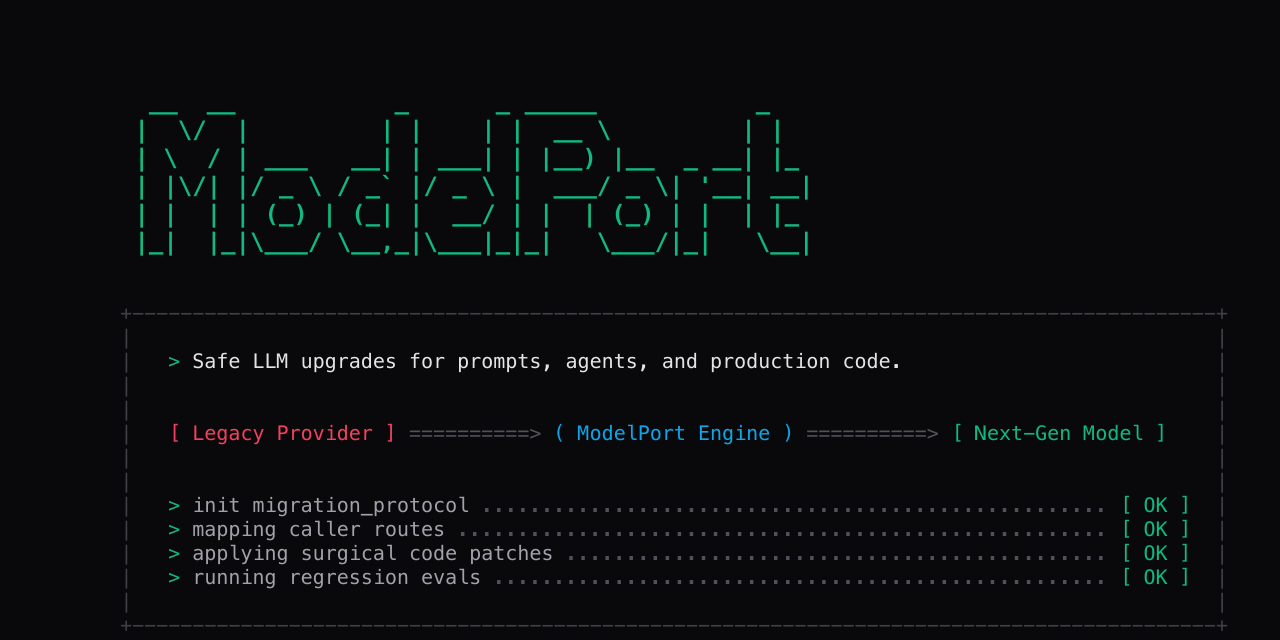
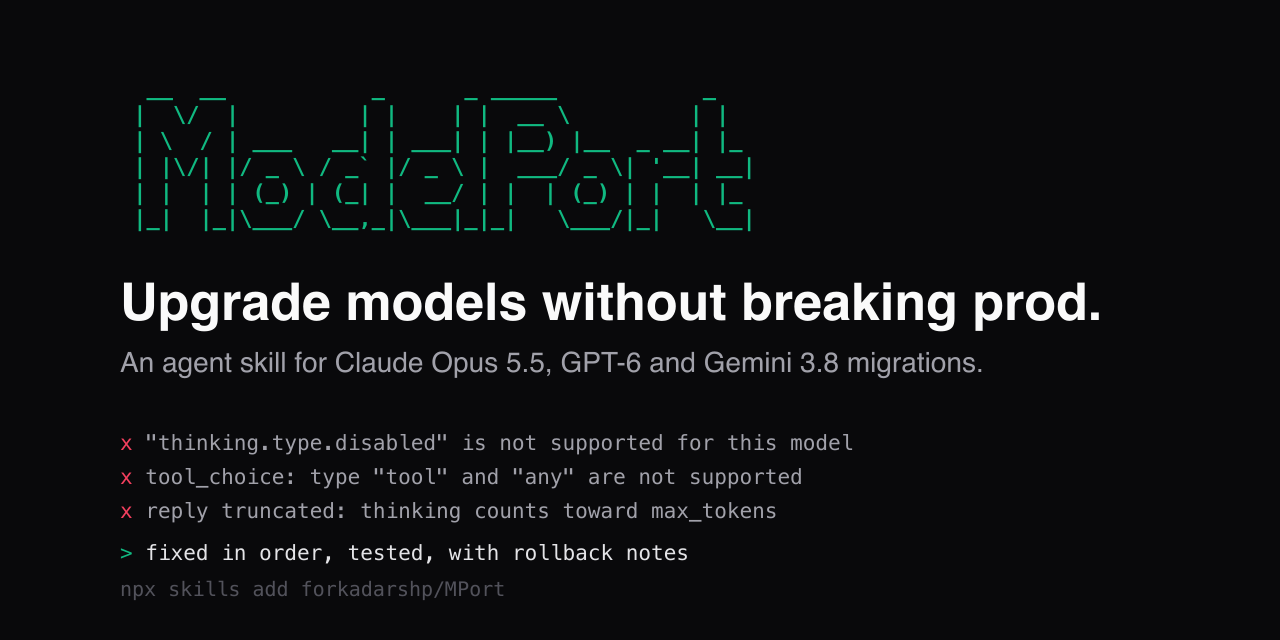
docs(readme): lead with the errors people hit and the supported models
Replace the Opus 4.8 launch framing with an evergreen pitch, the exact
errors seen after a model swap, a supported-models table, and a sample
leaderboard taken from the simulator. Redraw the social preview.

diff --git a/README.md b/README.md
@@ -2,63 +2,86 @@
 
 [![CI](https://github.com/forkadarshp/MPort/actions/workflows/ci.yml/badge.svg)](https://github.com/forkadarshp/MPort/actions/workflows/ci.yml)
 [![License: MIT](https://img.shields.io/badge/License-MIT-yellow.svg)](LICENSE)
-[![Codex Skill](https://img.shields.io/badge/Codex-Skill-111827)](SKILL.md)
+[![Agent Skill](https://img.shields.io/badge/Agent-Skill-111827)](SKILL.md)
+[![Models](https://img.shields.io/badge/Claude_5.x_·_GPT--6_·_Gemini_3.8-guides-blue)](references/models/INDEX.md)
 [![PRs Welcome](https://img.shields.io/badge/PRs-welcome-brightgreen.svg)](CONTRIBUTING.md)
-[![Status: Alpha](https://img.shields.io/badge/Status-v0.1_Alpha-blue)](docs/PUBLISHING.md)
 
 ![ModelPort social preview](assets/social-preview.svg)
 
-**Ship model upgrades without breaking prod — then prove it.**
+**Upgrade to Claude Opus 5.5, GPT-6, or Gemini 3.8 without breaking prod.**
 
-Two things in one agent skill: **behavior-preserving migrations** across prompts, agents, tools, API callers, and tests — and **built-in evals** that score your old vs. new system so every upgrade is backed by numbers, not vibes. Works in Claude Code, Codex, and Cursor.
+ModelPort is an agent skill for Claude Code, Codex, and Cursor. It migrates the
+prompts, tool definitions, API calls, and tests around a model swap, using
+per-model guides that track each provider's breaking changes. Then it proves the
+upgrade worked with tests, a live smoke check, and optional old-vs-new evals.
 
-> **Install in one line:** `npx skills add forkadarshp/MPort` — then tell your agent to migrate. See [Quickstart](#quickstart).
+> **Install:** `npx skills add forkadarshp/MPort`, then tell your agent
+> *"migrate this repo to claude-opus-5-5"*. See [Quickstart](#quickstart).
 
-**The model ID is one line. The behavior around it is everything else.**
-Most migrations break because search-and-replace silently shatters tool calling,
-parsers, and orchestration. ModelPort treats a swap as behavior preservation:
+## Seen one of these after a model swap?
 
 ```text
-  # the naive migration         ┄ what a find/replace does
-  $ grep -rl 'opus-4-7' . | xargs sed -i 's/4-7/4-8/g'
-  x tool calls break      x parser drift        x silent prod regressions
-
-  # the ModelPort migration     ┄ behavior-preserving
-  > migrate this repo to claude-opus-4-8, keep behavior, prove it
-  ✓ callers mapped        ✓ contract held       ✓ tests + rollback evidence
+"thinking.type.disabled" is not supported for this model.
+tool_choice: type "tool" and "any" are not supported for this model.
+'claude-opus-5-5' does not support tool types: computer_20251124.
+temperature / top_p / logprobs rejected after moving to GPT-6
+thinking_budget and thinking_level in the same request (Gemini 3.x) → 400
+stop_reason: "refusal" and code that reads content[0]
 ```
 
-> **Star it** if it's saved you a migration headache — it helps other teams find it.
+Changing the model ID is one line. The 400s, the truncated replies (thinking now
+counts toward `max_tokens`), the quiet UI between tool calls, and the parsers
+that stop matching are everything else. The lookup for all of them is in
+[`references/breaking-changes.md`](references/breaking-changes.md). ModelPort
+applies the fixes for you, in order, and shows its evidence.
 
-## Now shipping: Claude Opus 4.8 (released 2026-05-28)
+## What you get
 
-Opus 4.8 is live, and ModelPort already ships a dedicated migration guide for it:
-[`references/models/claude-opus-4-8.md`](references/models/claude-opus-4-8.md).
-It covers the **4.7 → 4.8 drop-in path**, the **4.6 → 4.7 breaking changes you
-must apply first** (non-default sampling params now 400, manual extended
-thinking → `{type: "adaptive"}` + `effort`, new tokenizer, removed assistant
-prefills), and **effort re-baselining**. Point the skill at your repo:
+- **Current-model knowledge.** Dedicated guides for Claude Fable 5.1, Opus 5.5,
+  Sonnet 5.5, Haiku 5.5, GPT-6, and Gemini 3.8 Flash. Older guides layer
+  underneath for upgrades that start further back.
+- **Guides that stay fresh.** Every guide has a `Last verified:` date and a
+  `Source:`. A weekly job flags stale guides, and the skill re-checks the
+  provider's docs before trusting an old one.
+- **A migration, not a find/replace.** Scope lock, caller discovery, file
+  classification, required fixes kept apart from optional tuning, then
+  validation and rollback notes.
+- **Proof.** Tests, a live smoke call, and an optional three-arm benchmark
+  (old model, naive swap, ModelPort) with a runnable harness.
+
+## Supported models
+
+| Provider | Models with a dedicated guide |
+| :------- | :---------------------------- |
+| Anthropic | Claude Fable 5.1, Opus 5.5, Sonnet 5.5, Haiku 5.5 (legacy: Opus 4.8, Opus 4.6, Sonnet 4.5) |
+| OpenAI | GPT-6 Astra, GPT-6.1 Sol, GPT-6 Sol, GPT-6 Luna (legacy: GPT-5.5) |
+| Google | Gemini 3.8 Flash |
+| Anything else | Generic playbook plus provider checklists, with research on the target's docs |
+
+Registry, upgrade paths, and freshness rules: [`references/models/INDEX.md`](references/models/INDEX.md).
+
+## Example
 
 ```text
-Use $modelport-skill to migrate this codebase to claude-opus-4-8.
+Use $modelport-skill to migrate this codebase to claude-opus-5-5.
 Apply required compatibility fixes first, keep tool + output behavior stable,
 and return validation evidence plus rollback notes.
 ```
 
+You get back a report with: what changed and why, required fixes versus
+optional tuning, test and smoke results, risks, and how to roll back. A sample
+is in [examples/example-output.md](examples/example-output.md).
+
 ## How it works
 
-ModelPort treats a model swap as a **behavior-preservation problem**, not a
-search-and-replace. The model ID is one line; the behavior around it — tool
-calls, parsers, output contracts, prompts, orchestration — is everything else.
-The skill drives a strict, phase-gated pipeline that maps every caller,
-classifies each hit before editing, keeps required fixes apart from optional
-tuning, and refuses to claim "done" without proof.
+A strict, phase-gated pipeline. The skill will not edit before scope is locked
+and will not claim "done" without proof.
 
 ```text
 ╭──────────────────────────────────────────────────────────────────────╮
 │                                                                      │
-│   [ Opus 4.7 ]  ═══>  ( ModelPort )  ═══>  [ Opus 4.8 ]              │
-│   drop-in upgrade    behavior-preserving    GA · 2026-05-28          │
+│   [ old model ]  ═══>  ( ModelPort )  ═══>  [ new model ]            │
+│   what you run        behavior-preserving   what you ship            │
 │                                                                      │
 │   » phase 0   lock scope, read current state ················· [ OK ]│
 │   » phase 1   discover callers, prompts, agents, tools ······· [ OK ]│
@@ -71,94 +94,50 @@ tuning, and refuses to claim "done" without proof.
 ╰──────────────────────────────────────────────────────────────────────╯
 ```
 
-## More than a model-ID swap
+## Beyond the model ID
 
-ModelPort doesn't just rewrite `model="..."`. It updates prompts, tool
-descriptions, and guardrails to match how the **target model actually behaves** —
-including the undocumented quirks that never make the changelog.
+ModelPort also adjusts prompts, tool descriptions, and guardrails to match how
+the target model behaves, including changes the changelog barely mentions. Two
+examples from the current generation: Claude Opus 5.5 defaults to `medium`
+effort, one level below Opus 5, so an untouched config quietly thinks less. And
+Claude Sonnet 5.5 can read a user message that arrives right after a tool result
+as a prompt injection, so mid-task user input must be delivered as a user turn.
+Each guide lists these as required fixes or optional tuning, never mixed.
 
-Take chess: GPT-3.5 played badly, GPT-4o was a leap ahead — not from a rules
-change, but because 4o's training data held far more chess games. That kind of
-capability shift never appears in the release notes. ModelPort's research
-surfaces these advertised *and* unadvertised behaviors — from observed runs,
-prior migrations, web research, and provider changelogs — and folds the matching
-prompt and tooling changes into the migration, so the new model is actually used
-to its strengths instead of just dropped in.
+## Benchmark the upgrade
 
-## Outcomes: with vs. without ModelPort
+Opt in and ModelPort ends with measured evidence. It runs the same eval set
+against three configurations so the raw model delta and the skill's value are
+attributed separately:
 
-Skipping the discipline is exactly where migrations look fine in review and
-then silently regress in production — broken tool calls, drifted output
-contracts, no proof, and no way back.
+- **Baseline**: old model, old prompts (where you started)
+- **Naive swap**: new model, old prompts (what a find/replace gets you)
+- **ModelPort-enhanced**: new model, enhanced system (where you land)
 
-```text
-╭───────────────────────────────────┬───────────────────────────────────╮
-│  WITHOUT ModelPort                │  WITH ModelPort                   │
-├───────────────────────────────────┼───────────────────────────────────┤
-│   x  find/replace the model ID    │   ✓  scope-locked discovery       │
-│   x  tool calls break silently    │   ✓  callers mapped, not guessed  │
-│   x  parser / output drift        │   ✓  output contract preserved    │
-│   x  prompt hacks carry over      │   ✓  fixes vs tuning kept apart   │
-│   x  "looks fine" — no proof      │   ✓  tests + live smoke evidence  │
-│   x  no way back on breakage      │   ✓  rollback notes included      │
-├───────────────────────────────────┼───────────────────────────────────┤
-│   →  silent prod regressions      │   →  behavior-preserving upgrade  │
-╰───────────────────────────────────┴───────────────────────────────────╯
-```
-
-## Benchmark the upgrade — built-in evals
-
-Migrations shouldn't be a leap of faith. Opt in and ModelPort ends with
-**measured evidence, not vibes** — it runs the same eval set against three
-configurations so the raw model delta and the skill's added value are attributed
-separately:
-
-- **Baseline** — old model + old prompts (where you started)
-- **Naive swap** — new model + old prompts (what a find/replace would get you)
-- **ModelPort-enhanced** — new model + skill-enhanced system (where you land)
-
-A raw swap tends to regress exactly the things that don't survive a model change
-on their own — output contracts, tool calls, and parse-able format — because
-newer models follow instructions more literally and re-tokenize differently.
-The enhanced arm is where the skill's fixes earn their keep. Illustrative
-leaderboard (your run produces the actual measured numbers):
+Sample leaderboard from the bundled **offline simulator**. The simulator models
+only prompt explicitness and a per-model "literalness" knob, so these numbers
+show the report format, not real model performance:
 
 ```text
 ╭──────────────────────┬────────────┬────────────┬────────────╮
 │ metric               │ baseline   │ naive swap │ ModelPort  │
 │                      │ (old/old)  │ (new/old)  │ (new/enh.) │
 ├──────────────────────┼────────────┼────────────┼────────────┤
-│  task success        │        82% │        84% │        91% │
-│  output contract     │        93% │        89% │        98% │
-│  tool-call accuracy  │        90% │        83% │        96% │
-│  p95 latency         │       3.9s │       2.4s │       2.6s │
-│  cost / req          │     $0.052 │     $0.047 │     $0.045 │
-│  refusal / halluc.   │       2.8% │       2.1% │       1.4% │
+│  task success        │        64% │        57% │        93% │
+│  output contract     │        64% │        57% │        93% │
+│  tool-call accuracy  │        64% │        57% │        93% │
+│  p95 latency         │       4.1s │       2.5s │       2.5s │
+│  cost / req          │    $0.0008 │    $0.0006 │    $0.0009 │
 ├──────────────────────┼────────────┼────────────┼────────────┤
-│  composite (50/30/20)│       0.80 │       0.83 │       0.91 │
+│  composite (50/30/20)│       0.57 │       0.63 │       0.76 │
 ╰──────────────────────┴────────────┴────────────┴────────────╯
 ```
 
-Numbers above are illustrative, not measured results — latency and cost in
-particular move with the target model and are always reported as measured, never
-assumed. Methodology, metric definitions, and composite scoring live in
+Get real numbers: `python3 harness/run.py --provider anthropic` (needs
+`ANTHROPIC_API_KEY`). The harness works with current Claude models: it never
+sends parameters they reject and leaves room for always-on thinking. Details in
+[harness/README.md](harness/README.md) and
 [references/benchmarking.md](references/benchmarking.md).
-
-**Run it yourself.** A bundled harness turns this into a closed loop:
-`python3 harness/run.py` scores the three arms on an eval set, and
-`harness/iterate.py` sweeps prompt revisions so you watch the score climb until
-it plateaus. Two scenarios ship (support triage + multi-tool routing); it runs
-offline by default, or `--provider anthropic` for measured numbers. See
-[harness/README.md](harness/README.md).
-
-## Why ModelPort
-
-- Replace deprecated model IDs without breaking runtime calls.
-- Preserve output contracts, parser behavior, and tool calling.
-- Separate required compatibility fixes from optional prompt tuning.
-- Choose direct swap, adapter, shadow mode, canary, or phased rollout.
-- Produce validation evidence and rollback notes.
-- Benchmark pre vs. post (and raw-swap control) to quantify the upgrade.
 
 ## Quickstart
 
@@ -199,7 +178,7 @@ mkdir -p ~/.codex/skills/modelport-skill
 cp -R . ~/.codex/skills/modelport-skill
 ```
 
-Then ask Codex:
+Then ask your agent:
 
 ```text
 Use $modelport-skill and the starter prompt template to migrate
@@ -250,7 +229,7 @@ More examples are in [examples/example-prompts.md](examples/example-prompts.md).
 
 ## Expected output
 
-The skill guides Codex to produce a migration report with:
+The skill guides your agent to produce a migration report with:
 
 - Migration summary
 - Scope and files changed
@@ -279,11 +258,14 @@ See [examples/example-output.md](examples/example-output.md) for a sample report
 ├── assets/
 │   └── social-preview.svg
 ├── scripts/
-│   └── validate_skill.py
+│   ├── validate_skill.py
+│   └── check_freshness.py
+├── harness/                  (offline + live old-vs-new benchmark)
 ├── templates/
 │   └── migration-starter-prompt.md
 ├── references/
 │   ├── benchmarking.md
+│   ├── breaking-changes.md
 │   ├── migration-patterns.md
 │   ├── migration-playbook.md
 │   ├── output-style.md
@@ -291,10 +273,17 @@ See [examples/example-output.md](examples/example-output.md) for a sample report
 │   ├── provider-checklists.md
 │   ├── validation-proof.md
 │   └── models/
-│       ├── claude-opus-4-8.md
-│       ├── claude-opus-4-6.md
-│       ├── claude-sonnet-4-5.md
-│       └── gpt-5-5.md
+│       ├── INDEX.md
+│       ├── claude-fable-5-1.md
+│       ├── claude-opus-5-5.md
+│       ├── claude-sonnet-5-5.md
+│       ├── claude-haiku-5-5.md
+│       ├── gpt-6.md
+│       ├── gemini-3-8-flash.md
+│       ├── claude-opus-4-8.md      (legacy)
+│       ├── claude-opus-4-6.md      (legacy)
+│       ├── claude-sonnet-4-5.md    (legacy)
+│       └── gpt-5-5.md              (legacy)
 ├── examples/
 │   ├── example-prompts.md
 │   └── example-output.md
@@ -305,7 +294,9 @@ See [examples/example-output.md](examples/example-output.md) for a sample report
 └── .github/
     ├── ISSUE_TEMPLATE/
     ├── pull_request_template.md
-    └── workflows/ci.yml
+    └── workflows/
+        ├── ci.yml
+        └── freshness.yml
 ```
 
 ## Validate locally
@@ -326,8 +317,10 @@ npx markdownlint-cli2 "**/*.md"
 
 ## Roadmap
 
-- Per-model migration guides for Claude Opus 4.8 / 4.6, Sonnet 4.5, and GPT-5.5
-  ship today in `references/models/`. Next: Gemini and self-hosted models.
+- Per-model migration guides for Claude Fable 5.1 / Opus 5.5 / Sonnet 5.5 /
+  Haiku 5.5, GPT-6, and Gemini 3.8 Flash ship today in `references/models/`,
+  with legacy Claude and GPT-5.5 guides layered underneath. Next: Gemini Pro
+  and Flash-Lite guides, and self-hosted models.
 - Add regression fixtures for prompt, tool, and structured-output migrations.
 - Ship a runnable benchmark harness to auto-collect the three-arm leaderboard
   (the methodology lands today in `references/benchmarking.md`).
@@ -335,21 +328,21 @@ npx markdownlint-cli2 "**/*.md"
 
 ## FAQ
 
-### How do I migrate to Claude Opus 4.8?
+### How do I migrate to Claude Opus 5.5?
 
 Install ModelPort, then ask your agent: *"migrate this repo to
-`claude-opus-4-8`."* It reads the
-[Opus 4.8 guide](references/models/claude-opus-4-8.md), applies the required
+`claude-opus-5-5`."* It reads the
+[Opus 5.5 guide](references/models/claude-opus-5-5.md), applies the required
 compatibility fixes, preserves tool calling and output contracts, and returns
 validation evidence plus rollback notes.
 
-### How do I migrate from Claude Opus 4.7 to 4.8?
+### How do I migrate from an older Opus (4.x) to the latest?
 
-4.7 → 4.8 is a drop-in upgrade with no breaking API changes — the main task is
-re-baselining any tuned `effort` settings. ModelPort makes the model-ID change,
-flags the settings to retest, and validates that behavior is unchanged. Coming
-from 4.6 or earlier, it applies the 4.7 breaking changes first (sampling params,
-adaptive thinking, tokenizer, removed prefills).
+Upgrades layer. From 4.7 or older, ModelPort applies the
+[Opus 4.8 guide](references/models/claude-opus-4-8.md) first (sampling params,
+adaptive thinking, tokenizer, removed prefills), then the Opus 5.5 changes
+(thinking always on, forced `tool_choice` removed, preserved thinking, computer
+toolset), and re-baselines `effort`, whose default is now `medium`.
 
 ### Will changing the model ID break my tool calling or output format?
 
@@ -361,7 +354,7 @@ target model's actual behavior — researched from observed runs, web research,
 and provider changelogs, including unadvertised quirks — then validates the
 contract before finishing.
 
-### How do I benchmark Opus 4.8 against my current model?
+### How do I benchmark a new model against my current one?
 
 Opt into benchmarking at the start and ModelPort runs a three-arm comparison —
 baseline, naive swap, and the enhanced system — on the same eval set, then
@@ -375,9 +368,10 @@ Code, Codex, Cursor, or any compatible agent.
 
 ### Which models and providers does it support?
 
-Any model or provider swap (Anthropic, OpenAI, and others). It ships dedicated
-migration guides for Claude Opus 4.8 / 4.6, Claude Sonnet 4.5, and GPT-5.5, and
-a generic playbook for everything else.
+Any model or provider swap (Anthropic, OpenAI, Google, and others). It ships dedicated
+migration guides for Claude Fable 5.1, Opus 5.5, Sonnet 5.5, and Haiku 5.5,
+GPT-6, and Gemini 3.8 Flash (plus legacy Claude and GPT-5.5 guides), and a
+generic playbook for everything else.
 
 ## Contributing
 
